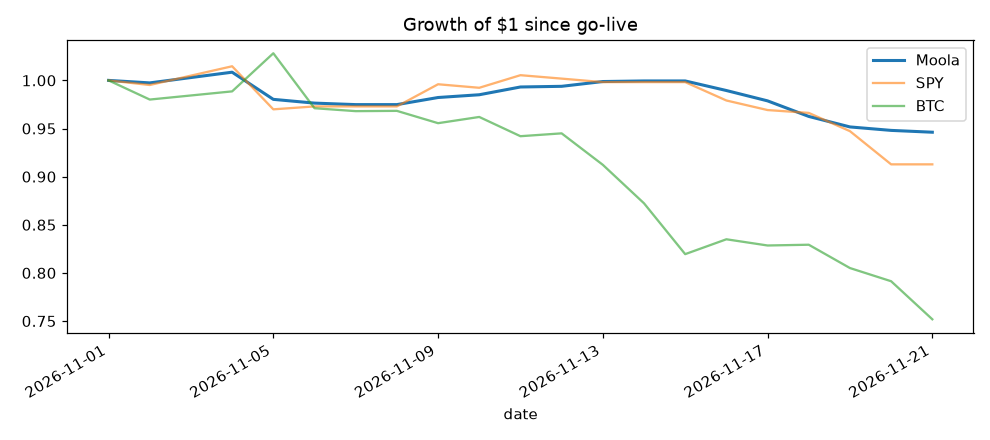
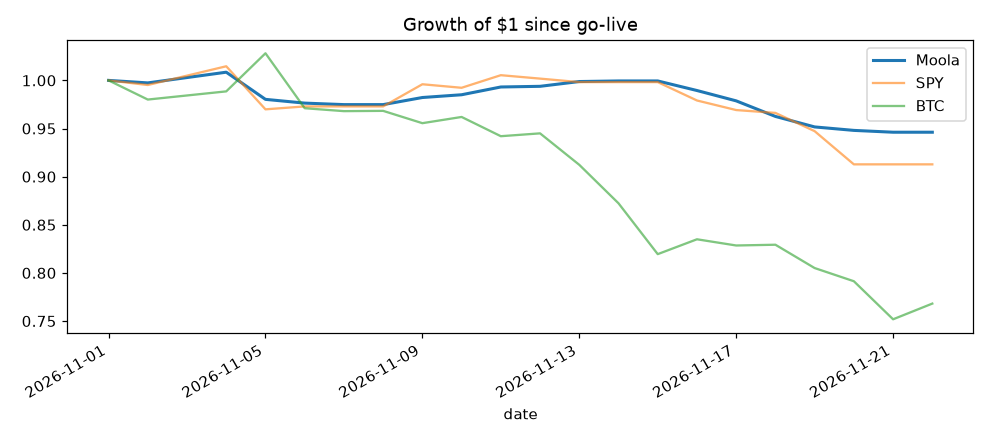
bot: daily run 2026-11-22

diff --git a/results_summary.md b/results_summary.md
@@ -1,9 +1,9 @@
 # Moola results summary
 
-_Generated 2026-11-21 21:30 UTC. Auto-generated by `moola.report`, do not edit._
+_Generated 2026-11-22 21:30 UTC. Auto-generated by `moola.report`, do not edit._
 
 - **Strategy version:** v1
-- **Live since:** 2026-11-01 (20 runs)
+- **Live since:** 2026-11-01 (21 runs)
 - **Equity:** $94,686.09 (cumulative P&L $-5,313.91)
 - **Exposure:** gross 74.85%, crypto 0.00%
 
@@ -11,17 +11,17 @@ _Generated 2026-11-21 21:30 UTC. Auto-generated by `moola.report`, do not edit._
 
 | window | return | Sharpe | max DD | SPY | BTC |
 |---|---|---|---|---|---|
-| last 7 days | -5.33% | -24.94 | -5.33% | -8.56% | -13.81% |
-| last 30 days | -5.38% | -5.86 | -6.18% | -8.72% | -24.82% |
-| since start | -5.38% | -5.86 | -6.18% | -8.72% | -24.82% |
+| last 7 days | -5.33% | -24.94 | -5.33% | -8.56% | -6.27% |
+| last 30 days | -5.38% | -5.71 | -6.18% | -8.72% | -23.19% |
+| since start | -5.38% | -5.71 | -6.18% | -8.72% | -23.19% |
 
 ## By strategy version
 
 | version | from | to | runs | return | Sharpe |
 |---|---|---|---|---|---|
-| v1 | 2026-11-01 | 2026-11-21 | 20 | -5.38% | -5.86 |
+| v1 | 2026-11-01 | 2026-11-22 | 21 | -5.38% | -5.71 |
 
-## Current positions (2026-11-21)
+## Current positions (2026-11-22)
 
 | symbol | market value | weight | unrealized P&L |
 |---|---|---|---|
@@ -48,9 +48,6 @@ _Generated 2026-11-21 21:30 UTC. Auto-generated by `moola.report`, do not edit._
 
 ## Risk flags (last 14 runs)
 
-- 2026-11-08: capped XLV from 33.8% to 25%
-- 2026-11-08: capped XLE from 26.5% to 25%
-- 2026-11-08: capped XLF from 39.7% to 25%
 - 2026-11-09: capped XLF from 27.4% to 25%
 - 2026-11-09: capped SPY from 30.5% to 25%
 - 2026-11-10: capped XLV from 33.6% to 25%
@@ -84,6 +81,7 @@ _Generated 2026-11-21 21:30 UTC. Auto-generated by `moola.report`, do not edit._
 - 2026-11-19: capped XLE from 26.0% to 25%
 - 2026-11-20: capped XLV from 100.0% to 25%
 - 2026-11-21: capped XLV from 100.0% to 25%
+- 2026-11-22: capped XLV from 100.0% to 25%
 
 ## Data/execution errors (last 14 runs)
 
